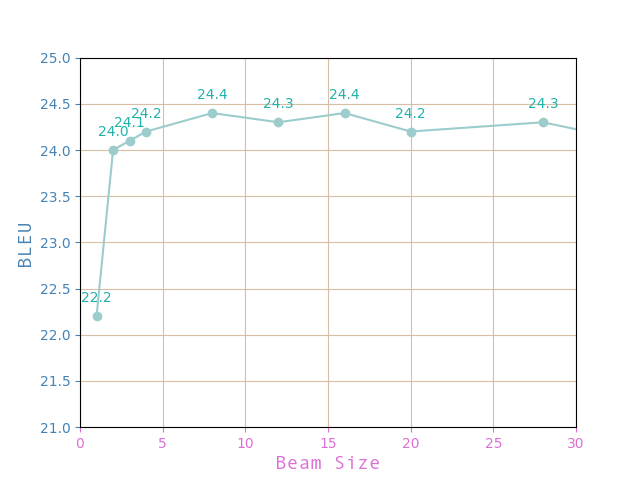
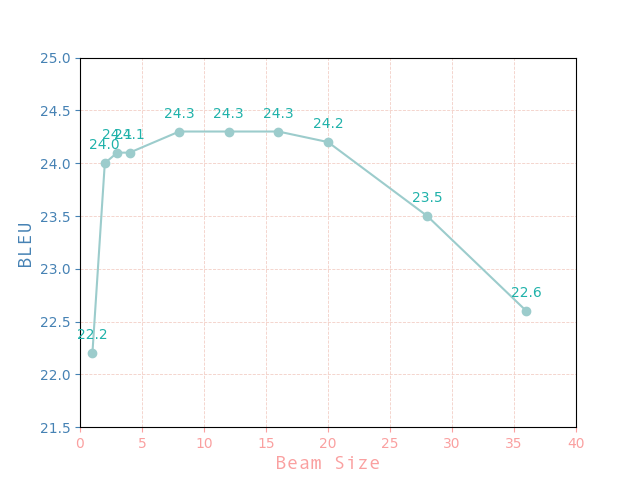
Update graph & README.md

diff --git a/scripts/get_graph.py b/scripts/get_graph.py
@@ -7,12 +7,12 @@ import re
 def create_graph(bleu_score: List[float], beam_size: List[int]):
     """Create graph with beam size values on the x-axis and BLEU scores on the y-axis."""
 
-    COLORS = ["#486090", "#D7BFA6", "#4682B4", "#9CCCCC", "#7890A8","#DA70D6", "#20B2AA", "#90A8C0", "#A8A890"]
+    COLORS = ["#486090", "#F3CFC6", "#4682B4", "#9CCCCC", "#7890A8","#FAA0A0", "#20B2AA", "#90A8C0", "#A8A890"]
 
     # make plot
     plt.plot(beam_size, bleu_score, '-', color = COLORS[3], marker="o")
     plt.gca().get_xaxis().get_major_formatter().set_useOffset(False)
-    plt.axis([0, 30, 21.0, 25.0])
+    plt.axis([0, 40, 21.5, 25.0])
     
     # color axis points
     plt.tick_params(axis='x', colors=COLORS[5])
@@ -27,7 +27,7 @@ def create_graph(bleu_score: List[float], beam_size: List[int]):
     plt.xlabel("Beam Size", fontname="Andale Mono", fontsize=14, color=COLORS[5])
     plt.ylabel("BLEU", fontname="Andale Mono", fontsize=14, color = COLORS[2])
     
-    plt.grid(True, color=COLORS[1])
+    plt.grid(True, color=COLORS[1], linestyle="--", linewidth=0.6)
     plt.savefig("bleu_beam_graph.png")
     
 

diff --git a/README.md b/README.md
@@ -88,7 +88,7 @@ Results of the evaluation will be printed out in the terminal.
 
 If you decide to train and evaluate several BPE level models, make sure to run `train_bpe.sh` then `evaluate_bpe.sh` for the same model before initializing training of the next BPE level model.
 
-💫 To get BLEU results for different `beam-size` values run:
+💫 To get BLEU results for different `beam size` values run:
 
     .scripts/vary_beam_size.sh | tee -a bleu_output.txt
 
@@ -102,11 +102,17 @@ Raw results of the performed evaluation for all `K` values can be found in `bleu
 
 📈 To get graph for BLEU - BEAM SIZE run:
 
-    scripts/get_graph.py
+    python scripts/get_graph.py
 
 
 
-# BPE - Experiment Results
+# Experiment Results
+
+- Translation direction: DE --> EN
+
+- Detailed analysis of the results will be submitted in PDF.
+
+**1 Byte Pair Encoding**
 
 |                   |    `use BPE`  |    vocab size   |     `BLEU`     | 
 |:------------------|:-------------:|:---------------:|---------------:|
@@ -116,11 +122,20 @@ Raw results of the performed evaluation for all `K` values can be found in `bleu
   
 
 
-**BLEU - Differences**
+**1.1 BLEU - Differences**
 
-**Manual Assessment**
+Experiment confirms that "subword representations cause big improvements in the translation of rare and unseen words"(Sennrich et al. ***"Neural Machine Translation of Rare Words with Subword Units"***) contributing to the overall better evaluation scores. The most significant improvement is observed in a difference between BLEU scores of a word-level model and BPE-level model with the same vocabulary size of 2000 tokens/subwords. 
 
-# Beam Size & Translation Quality
+
+**1.2 Manual Assessment**
+
+In order to make assessment as fair as possible, and since "human raters assessing adequacy and fluency show a stronger preference for human over machine translation when evaluating documents as compared to isolated sentences" (Läubli et al. ***"Has Machine Translation Achieved Human Parity?"*** ), assessment is performed on 15 randomly chosen isolated sentence pairs in a binary way: good - bad.
+
+**2 Beam Size & Translation Quality**
 
 ![Beam Size - BLEU score Relationship](bleu_beam_graph.png)
+
+The relationship graph between BLEU score and beam size roughly corresponds to the idea that "increasing the beam size does not consistently improve translation quality." (Kohen & Knowels - ***"Six Challenges for Neural Machine Translation"***). 
+
+Based on this specific case optimal beam size is between 8 and 16.  
 
